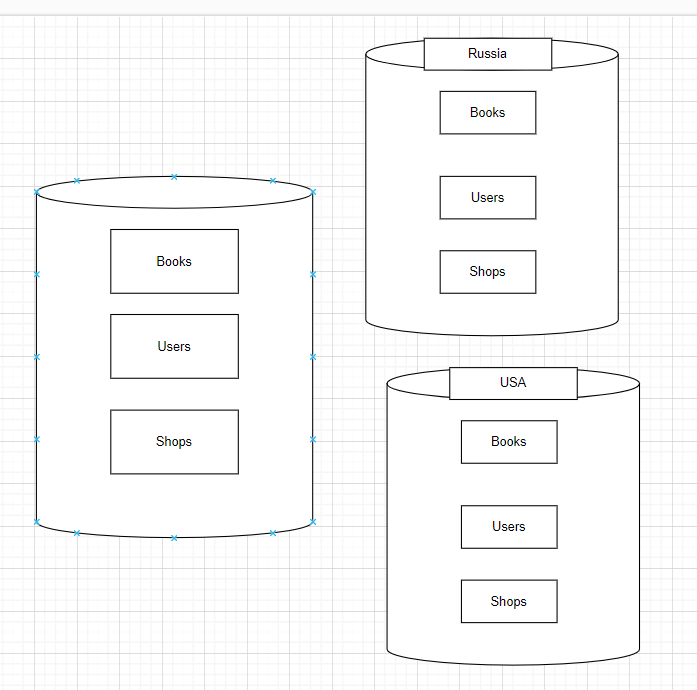
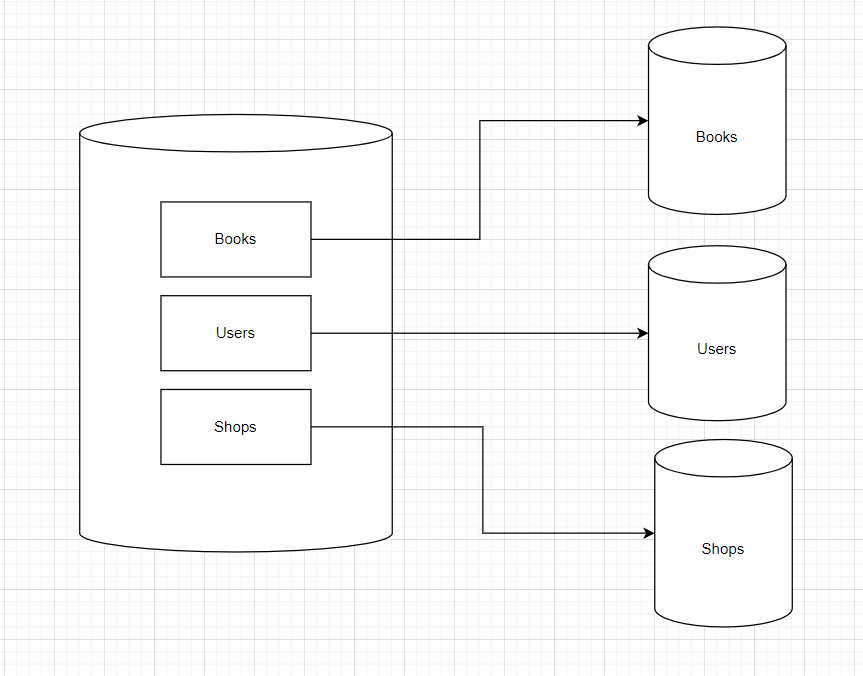
правки дз 12.7

diff --git a/12.7 «Репликация и масштабирование. Часть 2»/hm.md b/12.7 «Репликация и масштабирование. Часть 2»/hm.md
@@ -42,7 +42,7 @@
 
 Вертикальное масштабирование:
 
-есть смысл разбить по странам, внутри одной страны вертикальное масштабирование будет неверным, так как одна книга может выставляться в нескольких городах, а пользователи могут совершать покупки в разных магазинах и покупать разные книги
+Разобьем базу по таблицам, то есть все что касается пользователей будет лежать на одном сервере, книги на другом и тд
 
 ![Задание2](Снимок2.PNG)
 
